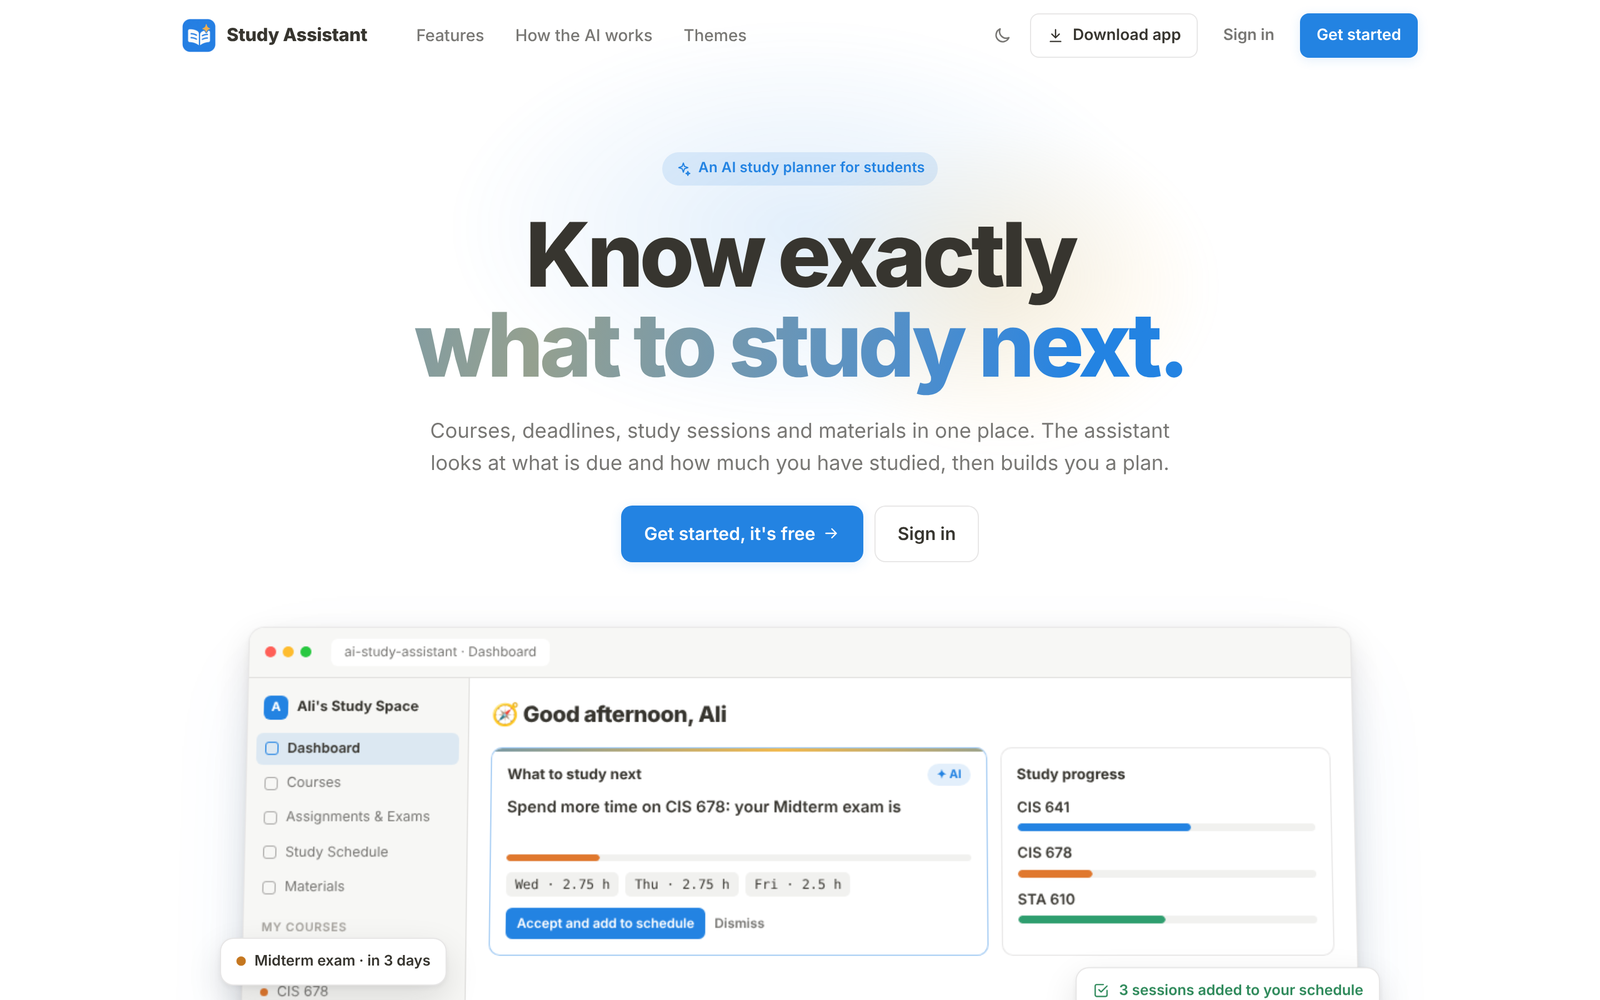
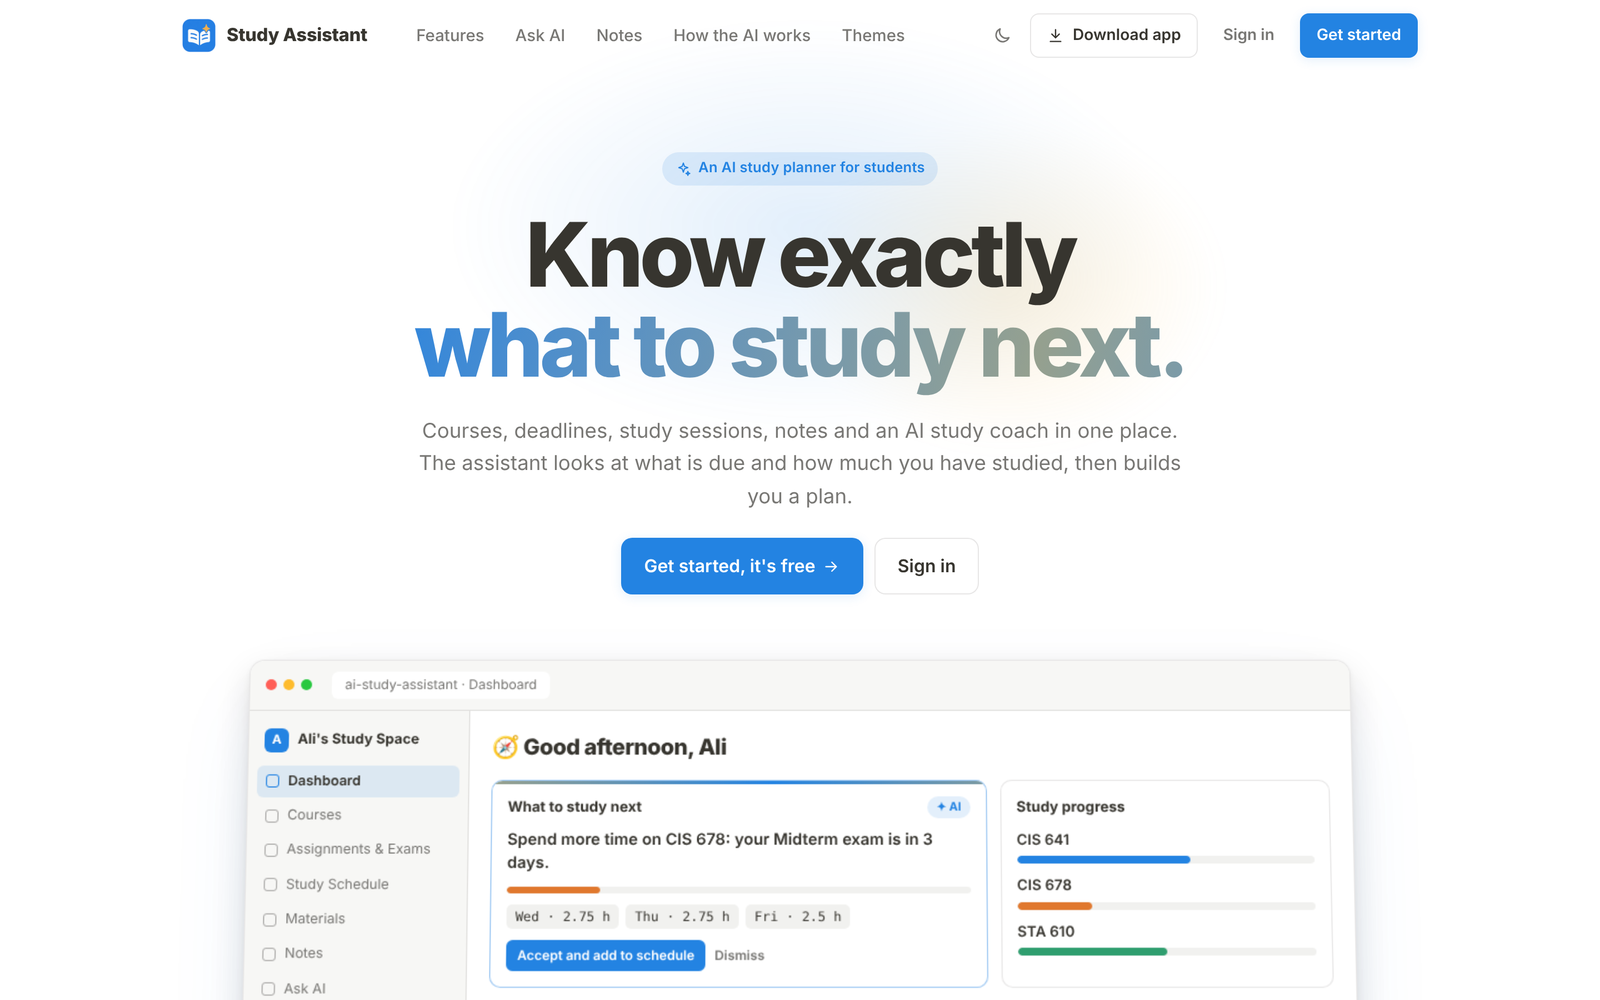
Welcome page: Ask AI and Notes showcases

diff --git a/src/client/src/pages/Landing.jsx b/src/client/src/pages/Landing.jsx
@@ -34,6 +34,120 @@ function useTyping(messages, speed = 32, pause = 2200) {
   return text;
 }
 
+/** Moves through steps of an animation (each with its own length in ms), then starts again. */
+function useLoop(durations) {
+  const [step, setStep] = useState(0);
+  useEffect(() => {
+    const t = setTimeout(() => setStep((s) => (s + 1) % durations.length), durations[step]);
+    return () => clearTimeout(t);
+  }, [step, durations]);
+  return step;
+}
+
+/** Types its text once, letter by letter, when it appears */
+function Typer({ text, speed = 22 }) {
+  const [n, setN] = useState(0);
+  useEffect(() => {
+    if (n >= text.length) return undefined;
+    const t = setTimeout(() => setN((v) => v + 1), speed);
+    return () => clearTimeout(t);
+  }, [n, text, speed]);
+  return <>{text.slice(0, n)}{n < text.length && <span className="caret" />}</>;
+}
+
+const CHAT_STEPS = [700, 1900, 900, 650, 500, 500, 500, 2600, 3200];
+const CHAT_CARDS = [
+  { icon: 'check', title: 'Added exam', detail: 'Final exam · CIS 641 · due Sat, Dec 12 · 10 h' },
+  { icon: 'calendar', title: 'Planned study session', detail: 'CIS 641 · Mon, Dec 7 · 19:00 · 2 h' },
+  { icon: 'calendar', title: 'Planned study session', detail: 'CIS 641 · Wed, Dec 9 · 19:00 · 2 h' },
+  { icon: 'calendar', title: 'Planned study session', detail: 'CIS 641 · Fri, Dec 11 · 19:00 · 2 h' },
+];
+
+/** The Ask AI chat, acted out: the student asks, the assistant adds things to the planner */
+function ChatShowcase() {
+  const step = useLoop(CHAT_STEPS);
+  return (
+    <div className="sc-window sc-chat" aria-hidden="true">
+      <div className="pv-bar"><span className="pv-dot" /><span className="pv-dot" /><span className="pv-dot" /><span className="pv-url">Ask AI</span></div>
+      <div className="sc-chat-body">
+        {step >= 1 && (
+          <div className="sc-user"><Typer key="u" text="Add my CIS 641 final on Dec 12 and plan three 2-hour sessions before it" speed={18} /></div>
+        )}
+        {step === 2 && <span className="thinking"><i /><i /><i /></span>}
+        {step >= 3 && (
+          <div className="sc-cards">
+            {CHAT_CARDS.slice(0, Math.min(4, step - 2)).map((c, k) => (
+              <div key={k} className="sc-card">
+                <span className="sc-card-icon"><Icon name={c.icon} size={14} /></span>
+                <span className="sc-card-text"><b>{c.title}</b><span>{c.detail}</span></span>
+                <span className="sc-undo">Undo</span>
+              </div>
+            ))}
+          </div>
+        )}
+        {step >= 7 && (
+          <p className="sc-answer"><Typer text="Done! Your final is on Saturday, Dec 12, with three evening sessions before it. Want me to add one more this weekend?" speed={14} /></p>
+        )}
+      </div>
+      <div className="sc-composer"><span>Ask anything, or attach your notes…</span><i><Icon name="send" size={13} /></i></div>
+    </div>
+  );
+}
+
+const NOTE_STEPS = [1400, 1900, 2300, 2600, 3400];
+
+/** A notes page, acted out: the "/" menu, the AI writing, and the Notes AI panel editing the page */
+function NotesShowcase() {
+  const step = useLoop(NOTE_STEPS);
+  return (
+    <div className="sc-window sc-notes" aria-hidden="true">
+      <div className="pv-bar"><span className="pv-dot" /><span className="pv-dot" /><span className="pv-dot" /><span className="pv-url">Notes · Sequence diagrams</span></div>
+      <div className="sc-notes-body">
+        <div className="sc-page">
+          <div className="sc-cover" />
+          <span className="sc-icon">🧠</span>
+          <h4>Sequence diagrams</h4>
+          <p className="sc-quote">Objects work together over time, one message after another.</p>
+          <p className="sc-h">Key ideas</p>
+          <ul><li><b>Lifeline:</b> one object over time</li><li><b>Message:</b> an arrow between objects</li></ul>
+          {step === 1 && (
+            <div className="sc-line">
+              <span className="sc-slash">/</span>
+              <div className="sc-menu">
+                <p>✦ AI</p>
+                <span className="on">❓ Practice quiz</span><span>🃏 Flashcards</span>
+                <p>Basic blocks</p>
+                <span>☑ To-do list</span><span>▦ Table</span>
+              </div>
+            </div>
+          )}
+          {step === 2 && (
+            <div className="sc-ai">
+              <div className="sc-ai-out">
+                <b>Practice quiz</b>
+                <Typer text="1. What does a lifeline show?  2. What is an activation bar?  3. When is a message asynchronous?" speed={16} />
+              </div>
+              <div className="sc-ai-bar"><img src="/logo.png" alt="" width={14} height={14} /><span>AI is writing…</span></div>
+            </div>
+          )}
+          {step >= 3 && (
+            <div className="sc-new">
+              <p className="sc-h">Practice quiz</p>
+              <ol><li>What does a lifeline show?</li><li>What is an activation bar?</li><li>When is a message asynchronous?</li></ol>
+            </div>
+          )}
+        </div>
+        <div className={`sc-panel ${step === 4 ? 'open' : ''}`}>
+          <div className="sc-panel-head"><img src="/logo.png" alt="" width={14} height={14} /> Notes AI</div>
+          <div className="sc-user small">Fix the formatting everywhere</div>
+          <div className="sc-steps"><span>✓ Edited "Key ideas"</span><span>✓ Edited the quote</span><span>✓ Added a summary</span></div>
+          <div className="sc-changes"><b>Edited the page · 3 changes</b><span>Show changes</span><span>↶ Undo</span></div>
+        </div>
+      </div>
+    </div>
+  );
+}
+
 const AI_LINES = [
   'Spend more time on CIS 678: your Midterm exam is in 3 days.',
   'You have studied 2 h, but this exam needs about 10 h.',
@@ -53,7 +167,7 @@ function AppPreview() {
         <div className="pv-body">
           <div className="pv-side">
             <div className="pv-ws"><span className="pv-avatar">A</span><b>Ali's Study Space</b></div>
-            {['Dashboard', 'Courses', 'Assignments & Exams', 'Study Schedule', 'Materials'].map((t, k) => (
+            {['Dashboard', 'Courses', 'Assignments & Exams', 'Study Schedule', 'Materials', 'Notes', 'Ask AI'].map((t, k) => (
               <div key={t} className={`pv-nav ${k === 0 ? 'on' : ''}`}><span />{t}</div>
             ))}
             <p className="pv-label">My courses</p>
@@ -91,18 +205,18 @@ function AppPreview() {
 }
 
 const FEATURES = [
-  { icon: 'book', title: 'Courses with weekly goals', text: 'Add each course with how many hours a week you want to study it. Every course gets its own color.' },
+  { icon: 'book', title: 'Courses with weekly goals', text: 'Add each course with how many hours a week you want to study it, and watch it fill up as you log time.' },
   { icon: 'check', title: 'Assignments & exams', text: 'Keep every deadline in one list with its type, priority and the hours it needs.' },
   { icon: 'calendar', title: 'Weekly study schedule', text: 'Plan study sessions on a calendar, see deadlines on the same week, and tick sessions off.' },
-  { icon: 'clip', title: 'Course materials', text: 'Drop in PDFs, slides and notes, or save links, all filed under the right course.' },
-  { icon: 'chart', title: 'Progress you can see', text: 'Log study time and watch each course fill up against its weekly goal.' },
-  { icon: 'spark', title: 'AI recommendations', text: 'Get told which course to focus on next, with a ready-made plan you can accept in one click.', hot: true },
+  { icon: 'note', title: 'Notes, like Notion', text: 'Pages and sub-pages with headings, to-dos, tables, covers and pictures. AI is built right into the page.', hot: true },
+  { icon: 'chat', title: 'Ask AI', text: 'A study coach that knows your deadlines and notes, reads your PDFs, and adds exams and sessions for you.', hot: true },
+  { icon: 'spark', title: 'AI recommendations', text: 'Get told which course to focus on next, with a ready-made plan you can accept in one click.' },
 ];
 
 const STEPS = [
   { n: '1', who: 'Rules', title: 'Find the study gap', text: 'For every task due in the next 14 days.', code: 'gap = needed − studied − planned' },
   { n: '2', who: 'Rules', title: 'Rank and plan', text: 'By deadline, priority and task type. The top 3 get a plan.', code: 'sessions of up to 2 h' },
-  { n: '3', who: 'LLM', title: 'Explain it', text: 'A language model writes a short, friendly message from those numbers.', code: 'Llama 3.2 · rule-based fallback' },
+  { n: '3', who: 'LLM', title: 'Explain it', text: 'A language model writes a short, friendly message from those numbers.', code: 'any LLM · rule-based fallback' },
   { n: '4', who: 'You', title: 'Accept or dismiss', text: 'Accepting puts the sessions straight into your schedule.', code: 'one click' },
 ];
 
@@ -126,6 +240,8 @@ export default function Landing() {
           <a className="lp-brand" href="#top"><img src="/logo.png" alt="" width={30} height={30} style={{ display: 'block' }} />Study Assistant</a>
           <nav className="lp-links">
             <a href="#features">Features</a>
+            <a href="#ask-ai">Ask AI</a>
+            <a href="#notes">Notes</a>
             <a href="#how">How the AI works</a>
             <a href="#themes">Themes</a>
           </nav>
@@ -144,8 +260,8 @@ export default function Landing() {
         <span className="eyebrow" data-reveal><Icon name="spark" size={14} /> An AI study planner for students</span>
         <h1 data-reveal>Know exactly<br /><span className="grad">what to study next.</span></h1>
         <p className="hero-sub" data-reveal>
-          Courses, deadlines, study sessions and materials in one place. The assistant looks at what is due and how much
-          you have studied, then builds you a plan.
+          Courses, deadlines, study sessions, notes and an AI study coach in one place. The assistant looks at what is due
+          and how much you have studied, then builds you a plan.
         </p>
         <div className="hero-cta" data-reveal>
           <Link className="btn primary lg" to="/signup">Get started, it's free <Icon name="arrow" size={16} /></Link>
@@ -169,6 +285,36 @@ export default function Landing() {
             </article>
           ))}
         </div>
+      </section>
+
+      <section className="lp-section lp-wrap showcase" id="ask-ai">
+        <div className="sc-text" data-reveal>
+          <span className="eyebrow"><Icon name="chat" size={14} /> Ask AI</span>
+          <h2>A study coach that does the work for you.</h2>
+          <p className="muted">It knows your courses, deadlines, hours and notes, so its answers are about your semester, not anyone's.</p>
+          <ul className="sc-list">
+            <li><Icon name="check" size={16} /><span><b>Adds things for you.</b> "Add my final on Dec 12 and plan three sessions": done, each with an Undo button.</span></li>
+            <li><Icon name="file" size={16} /><span><b>Reads your files.</b> Drop in a syllabus PDF or a screenshot and ask about it.</span></li>
+            <li><Icon name="mic" size={16} /><span><b>Talk to it.</b> Dictate a question, or use Voice mode to hear the answers.</span></li>
+            <li><Icon name="history" size={16} /><span><b>Remembers.</b> Every chat is saved, with tables, code and quizzes when you need them.</span></li>
+          </ul>
+        </div>
+        <div data-reveal style={{ transitionDelay: '.1s' }}><ChatShowcase /></div>
+      </section>
+
+      <section className="lp-section lp-wrap showcase flip" id="notes">
+        <div className="sc-text" data-reveal>
+          <span className="eyebrow"><Icon name="note" size={14} /> Notes</span>
+          <h2>Notes like Notion, with AI inside.</h2>
+          <p className="muted">Write lecture notes and study guides in a clean editor, then let the AI turn them into quizzes, flashcards and summaries.</p>
+          <ul className="sc-list">
+            <li><Icon name="plus" size={16} /><span><b>Type /</b> for headings, to-dos, tables, code, quotes and pictures. Pages can hold sub-pages.</span></li>
+            <li><Icon name="image" size={16} /><span><b>Make it yours</b> with an emoji, a gradient cover or your own photo.</span></li>
+            <li><Icon name="spark" size={16} /><span><b>Select text</b> to improve, shorten, explain or translate it, or press Ctrl+J to ask for anything.</span></li>
+            <li><Icon name="undo" size={16} /><span><b>Notes AI</b> chats beside your page and edits it for you, step by step, with one-click Undo.</span></li>
+          </ul>
+        </div>
+        <div data-reveal style={{ transitionDelay: '.1s' }}><NotesShowcase /></div>
       </section>
 
       <section className="lp-section lp-wrap" id="how">
@@ -222,7 +368,7 @@ export default function Landing() {
       <section className="lp-section lp-wrap">
         <div className="final" data-reveal>
           <h2>Your next study session is one click away.</h2>
-          <p>Create an account, add your courses and deadlines, and let the assistant plan the week.</p>
+          <p>Create an account, add your courses and deadlines, write your notes, and let the assistant plan the week.</p>
           <Link className="btn primary lg" to="/signup">Create your free account <Icon name="arrow" size={16} /></Link>
         </div>
       </section>

diff --git a/src/client/src/landing.css b/src/client/src/landing.css
@@ -178,3 +178,87 @@
 @media (prefers-reduced-motion:reduce){
   [data-reveal]{opacity:1;transform:none}
 }
+/* =========================================================================
+   Showcases: Ask AI and Notes, acted out with small animations
+   ========================================================================= */
+.showcase{display:grid;grid-template-columns:minmax(0,.9fr) minmax(0,1.1fr);gap:56px;align-items:center}
+.showcase.flip .sc-text{order:2}
+.sc-text{display:grid;gap:14px;align-content:start}
+.sc-text h2{font-size:clamp(1.8rem,3.6vw,2.5rem);font-weight:800;letter-spacing:-.035em;line-height:1.1}
+.sc-text .eyebrow{justify-self:start}
+.sc-list{list-style:none;margin:8px 0 0;padding:0;display:grid;gap:14px}
+.sc-list li{display:flex;gap:12px;align-items:flex-start;font-size:.95rem;line-height:1.5;color:var(--muted)}
+.sc-list li b{color:var(--fg)}
+.sc-list li > svg{flex:none;margin-top:2px;color:var(--accent);background:var(--accent-soft);border-radius:8px;padding:5px;width:28px;height:28px}
+
+.sc-window{border:1px solid var(--line);border-radius:14px;overflow:hidden;background:var(--bg);box-shadow:var(--shadow-lg),0 30px 80px -24px var(--accent-soft);
+  text-align:left;font-size:.84rem;transition:transform .5s var(--ease)}
+.sc-window:hover{transform:translateY(-4px)}
+@keyframes sc-in{from{opacity:0;transform:translateY(8px) scale(.98)}to{opacity:1;transform:none}}
+@keyframes sc-flash{0%{background:color-mix(in srgb,var(--accent) 22%,transparent)}100%{background:transparent}}
+@keyframes sc-move{0%,100%{background-position:0% 50%}50%{background-position:100% 50%}}
+@keyframes sc-hl{0%,35%{transform:translateY(0)}50%,100%{transform:translateY(26px)}}
+
+/* Chat */
+.sc-chat-body{height:360px;padding:18px 18px 8px;display:flex;flex-direction:column;gap:12px;overflow:hidden}
+.sc-user{align-self:flex-end;max-width:82%;background:var(--surface-2);border-radius:16px;padding:9px 13px;line-height:1.45;animation:sc-in .3s var(--ease) both}
+.sc-user.small{font-size:.76rem;padding:6px 10px;max-width:90%}
+.sc-cards{display:grid;gap:7px}
+.sc-card{display:flex;align-items:center;gap:10px;border:1px solid var(--line);border-left:3px solid var(--accent);border-radius:10px;padding:8px 10px;
+  background:var(--surface);animation:sc-in .35s var(--ease) both}
+.sc-card-icon{width:26px;height:26px;border-radius:7px;flex:none;display:grid;place-items:center;background:var(--accent-soft);color:var(--accent)}
+.sc-card-text{flex:1;min-width:0;display:grid;line-height:1.35}
+.sc-card-text b{font-size:.8rem}
+.sc-card-text span{font-size:.72rem;color:var(--muted);white-space:nowrap;overflow:hidden;text-overflow:ellipsis}
+.sc-undo{font-size:.72rem;font-weight:600;border:1px solid var(--line);border-radius:7px;padding:3px 8px;color:var(--fg)}
+.sc-answer{margin:0;line-height:1.55;animation:sc-in .3s var(--ease) both}
+.sc-composer{display:flex;align-items:center;justify-content:space-between;margin:0 14px 14px;border:1px solid var(--line-strong);border-radius:16px;padding:9px 9px 9px 14px;
+  color:var(--faint);font-size:.8rem}
+.sc-composer i{width:26px;height:26px;border-radius:50%;display:grid;place-items:center;background:var(--accent);color:var(--accent-ink,#fff)}
+
+/* Notes */
+.sc-notes-body{position:relative;height:420px;overflow:hidden;display:flex}
+.sc-page{flex:1;min-width:0;padding:0 0 16px;overflow:hidden}
+.sc-cover{height:86px;background:linear-gradient(120deg,#84fab0,#8fd3f4,#a6c1ee,#fbc2eb,#84fab0);background-size:300% 300%;animation:sc-move 10s ease-in-out infinite}
+.sc-icon{display:block;font-size:2rem;margin:-22px 0 0 28px;line-height:1}
+.sc-page h4{margin:6px 28px 6px;font-size:1.35rem;font-weight:800;letter-spacing:-.02em}
+.sc-page > p,.sc-page ul,.sc-page ol,.sc-new{margin:0 28px}
+.sc-quote{border-left:3px solid var(--fg);padding-left:10px;color:var(--muted)}
+.sc-h{font-weight:750;font-size:.98rem;margin-top:12px !important;margin-bottom:4px !important}
+.sc-page ul,.sc-page ol{padding-left:18px;display:grid;gap:3px}
+.sc-line{position:relative;margin:8px 28px 0}
+.sc-slash{display:inline-block;background:var(--hover);border-radius:4px;padding:0 4px}
+.sc-menu{position:absolute;left:0;top:24px;width:200px;display:grid;padding:6px;border:1px solid var(--line);border-radius:10px;background:var(--surface);
+  box-shadow:var(--shadow-lg);animation:sc-in .2s var(--ease) both;z-index:2}
+.sc-menu p{margin:4px 6px 2px;font-size:.66rem;font-weight:600;color:var(--faint)}
+.sc-menu span{padding:5px 8px;border-radius:6px;font-size:.76rem}
+.sc-menu span.on{background:var(--hover)}
+.sc-ai{margin:10px 22px 0;display:grid;gap:6px;animation:sc-in .25s var(--ease) both}
+.sc-ai-out{border:1px solid var(--line);border-radius:10px;padding:8px 10px;background:var(--surface);box-shadow:var(--shadow-lg);display:grid;gap:4px;line-height:1.5;font-size:.76rem}
+.sc-ai-bar{display:flex;align-items:center;gap:8px;border-radius:10px;padding:7px 10px;font-size:.74rem;color:var(--muted);background:var(--surface);
+  border:1.5px solid transparent;background:linear-gradient(var(--surface),var(--surface)) padding-box,linear-gradient(90deg,var(--accent),#a855f7,#ec4899,var(--accent)) border-box;
+  background-size:100% 100%,300% 100%;animation:sc-move 2s linear infinite}
+.sc-new{border-radius:8px;padding:2px 6px;margin-left:22px !important;animation:sc-in .3s var(--ease) both,sc-flash 2s ease-out .1s both}
+.sc-panel{position:absolute;top:0;right:0;bottom:0;width:46%;border-left:1px solid var(--line);background:var(--bg);padding:12px;display:grid;gap:8px;align-content:start;
+  transform:translateX(104%);transition:transform .45s var(--ease);box-shadow:-12px 0 30px -18px rgba(0,0,0,.35)}
+.sc-panel.open{transform:none}
+.sc-panel-head{display:flex;align-items:center;gap:6px;font-weight:700;font-size:.8rem;padding-bottom:6px;border-bottom:1px solid var(--line)}
+.sc-steps{display:grid;gap:3px;font-size:.7rem;color:var(--muted);border-left:2px solid var(--line);padding-left:8px}
+.sc-panel.open .sc-steps span{animation:sc-in .3s var(--ease) both}
+.sc-panel.open .sc-steps span:nth-child(2){animation-delay:.25s}
+.sc-panel.open .sc-steps span:nth-child(3){animation-delay:.5s}
+.sc-changes{display:grid;gap:4px;border:1px solid var(--line);border-radius:9px;padding:8px;font-size:.7rem;background:var(--surface)}
+.sc-panel.open .sc-changes{animation:sc-in .3s var(--ease) .75s both}
+.sc-changes span{color:var(--accent);font-weight:600}
+
+@media (max-width:960px){
+  .showcase{grid-template-columns:1fr;gap:32px}
+  .showcase.flip .sc-text{order:0}
+}
+@media (max-width:680px){
+  .sc-chat-body{height:340px;padding:14px 12px 6px}
+  .sc-notes-body{height:400px}
+  .sc-panel{width:64%}
+  .sc-window:hover{transform:none}
+}
+@media (prefers-reduced-motion:reduce){.sc-window *{animation:none !important}}

diff --git a/README.md b/README.md
@@ -69,6 +69,10 @@ Open the [live app](https://gvsu-cis641-aistudyassistant.onrender.com) and click
   <img src="docs/screenshots/sign-up.png" alt="Create your account" width="49%" />
 </p>
 
+The welcome page also shows Ask AI and Notes in action with short animations:
+
+<p align="center"><img src="docs/screenshots/landing-notes.png" alt="Welcome page section showing Notes with AI inside" width="900" /></p>
+
 Forgot your password? On the sign-in page, click **Forgot password?**, type your email, and open the link in the email you receive to choose a new password.
 
 ### 2. Add your courses
